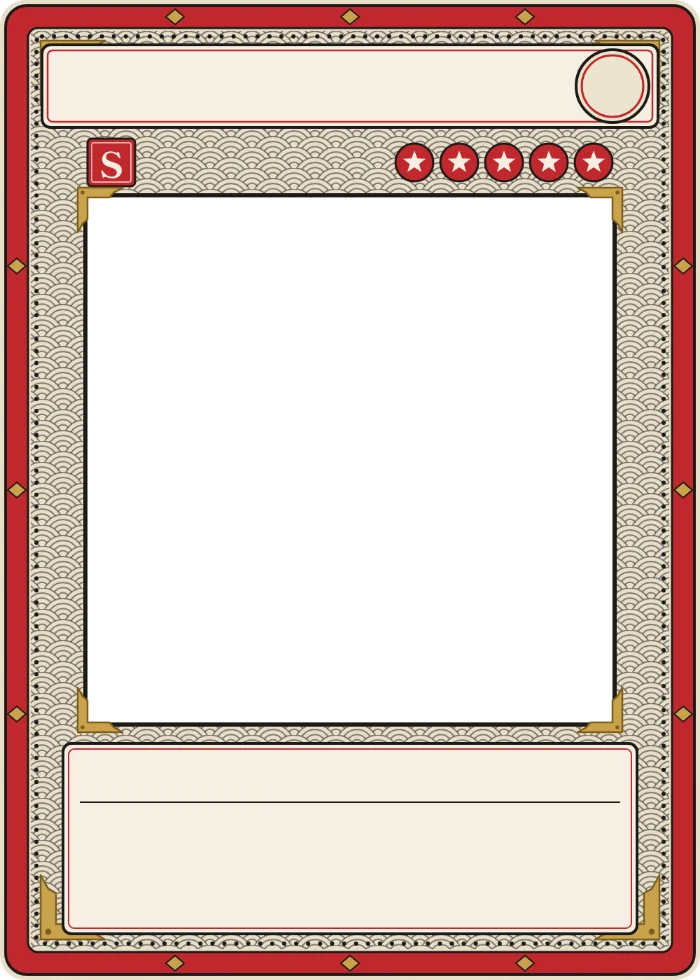
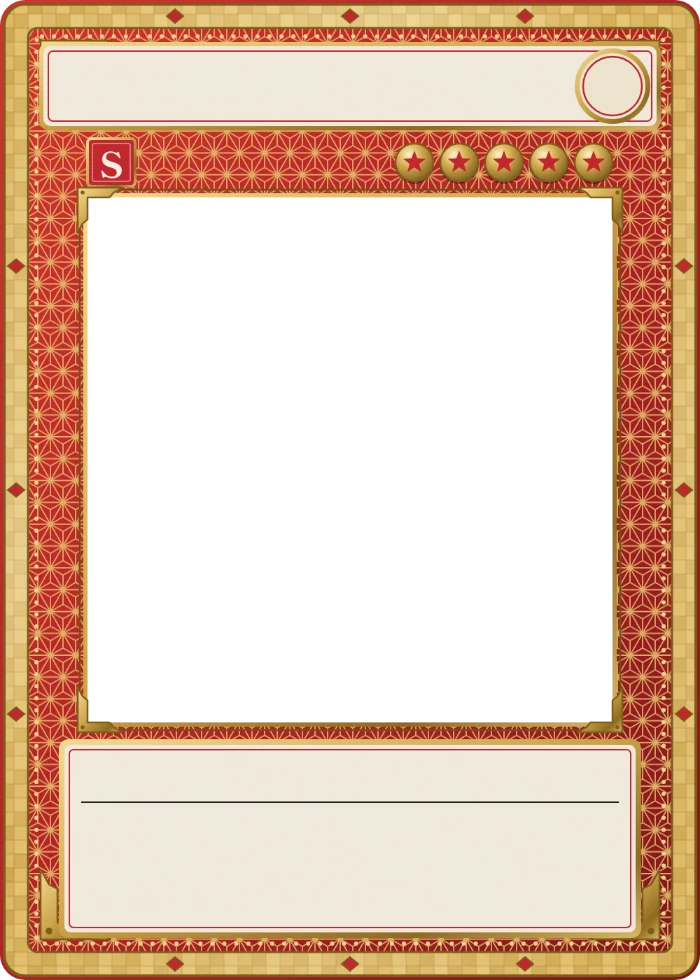
S de Jugador nueva: laca bermellón con asanoha de oro
- Marco S de Jugador rehecho con más nivel: campo de laca bermellón con asanoha (hoja de cáñamo) de oro,
  banda de pan de oro, marcos de oro en el nombre, la ventana y la caja de texto, y estrellas de oro.
- Alternativa en pan de oro con anillos shippō bermellón (diseno/marcos/svg/propuestas/) y la S anterior
  guardada. El exportador puede sacar solo algunas piezas: node diseno/marcos/exportar.mjs jugador/S.

diff --git a/PROGRESO.md b/PROGRESO.md
@@ -91,3 +91,12 @@
 - Guardadas para ediciones especiales: la laca completa y la S+ washi con torii (en el lienzo y en `diseno/marcos/svg/guardadas/`).
 - Web: las cartas especiales pasan a ser BOOST (`data-proyecto/cartas-boost.json`, con tier S+, S, A o B); marcos por clase en `public/cartas/marcos/jugador|boost/` (WebP de 700 px: de 9 a 80 KB los marcos y 173 KB el reverso) y reverso común en la apertura de sobres. `diseno/marcos/generar.mjs` y `exportar.mjs` los rehacen.
 - Pendiente del usuario: decidir si la D se queda en la tier list (las de Jugador son S, A, B, C) y qué hace cada BOOST en el fantasy; los dibujos de cada carta (Excel de campeones).
+
+## 30/09: primeras cartas reales (SARU, KAIJU, TORA y 5 BOOST) y campeón en cada carta
+
+- Plantillas de SARU, KAIJU y TORA con sus cinco jugadores (`data-proyecto/plantillas.json`) y su tier (copia local `data/tierlist.json`, que no se sube a GitHub). Los otros 12 clanes siguen sin jugadores ni tier, así que sus cartas aún no existen.
+- Cinco cartas BOOST en `data-proyecto/cartas-boost.json`: MAKITAH «El Titiritero», SONS «The CEO», IGRID «Topfather» y LOLEX «El Pequeñísimo» (S+, ×3) y GYPSICUACK «El Gitano» (S, ×2). Cada una lleva `multiplicador` y `condicion` (`dano`, `participacion`, `dano-torres`, `cs` o `asistencias`); sin una condición conocida y más de ×1 no hay bonus. Sale en la carta como «×3 · más daño» y la frase entera al pasar el ratón.
+- Campeón de cada carta, jugadores y BOOST, en `data-proyecto/campeones-cartas.json` (id de Data Dragon por id de carta; uno desconocido se descarta con un aviso en el log). La carta lo enseña bajo el rol. El campeón va con el puesto (CLAN-ROL), no con la persona: si cambia el jugador en el panel, el campeón se queda.
+- En Render los nombres y las tiers viven en Google Sheets (pestañas Plantillas y Tierlist), así que los de este día no llegan solos: hay que meterlos por el panel o pegarlos en la hoja. Los campeones y las BOOST sí llegan al desplegar, porque salen del repositorio.
+- Pendiente: la web todavía no aplica el multiplicador de las BOOST al fantasy (siguen sin poder alinearse); falta decidir cómo se juegan y qué dato de fin de partida comprueba cada condición.
+- S de Jugador rehecha (le faltaba nivel): laca bermellón con asanoha de oro, banda de pan de oro, marcos de oro en el nombre, la ventana y la caja, y estrellas de oro. Alternativa en pan de oro con anillos shippō bermellón en el lienzo y en `diseno/marcos/svg/propuestas/`; la anterior, guardada.

diff --git a/README.md b/README.md
@@ -206,7 +206,7 @@ El `id` es el nombre del dibujo (mayúsculas, números y guiones) y `tier` es `S
 - **Dibujo de cada carta:** `public/cartas/ID.png` (también `.webp` o `.jpg`), donde el ID es el puesto del jugador (`KAIJU-TOP`, `TORA-ADC`…) o el de la BOOST (`BOOST-KAMI`). Mientras no exista, la carta lleva el arte de su clan (y las BOOST, el sol partido).
 - **Marcos:** en `public/cartas/marcos/jugador/` (S, A, B, C y D, en papel washi) y `boost/` (SP, que es la S+, S, A y B, en laca de armadura con cordones: oro, rojo, blanco y añil). Tienen la ventana del arte transparente (750×750 en x 125, y 282 de 1000×1400), y el sello con la letra y las estrellas ya dibujados. Sin marco, la carta se dibuja como antes.
 - **Reverso:** `public/cartas/marcos/reverso.webp`, el mismo para las dos clases y todas las tiers: al abrir el sobre las tres cartas salen boca abajo y no se sabe qué ha tocado hasta darles la vuelta.
-- Los marcos se hacen en `diseno/marcos/`: `node diseno/marcos/generar.mjs` los dibuja en SVG y `node diseno/marcos/exportar.mjs` los pasa a PNG de 1000×1400 (originales, en `diseno/marcos/png/`, fuera del repositorio) y a WebP ligeros para la web (usa Chrome o Edge sin ventana). Ahí están también **guardados** para ediciones especiales la alternativa de laca completa y la S+ washi con torii (`exportar.mjs --guardadas` los pasa a PNG).
+- Los marcos se hacen en `diseno/marcos/`: `node diseno/marcos/generar.mjs` los dibuja en SVG y `node diseno/marcos/exportar.mjs` los pasa a PNG de 1000×1400 (originales, en `diseno/marcos/png/`, fuera del repositorio) y a WebP ligeros para la web (usa Chrome o Edge sin ventana). Ahí están también **guardados** para ediciones especiales la alternativa de laca completa, la S+ washi con torii y la S de Jugador anterior, y en `propuestas/` la S de Jugador en pan de oro (`exportar.mjs --guardadas` los pasa a PNG). Con un trozo del nombre solo se exportan esas piezas: `node diseno/marcos/exportar.mjs jugador/S`.
 - Las posiciones del nombre, el emblema y el rol sobre el marco se ajustan en el bloque «Carta con marco» de `public/gachapon/gachapon.css`.
 - La web mira la carpeta cada minuto: los dibujos nuevos aparecen sin reiniciar. Las direcciones llevan la fecha del archivo, así que al cambiar un dibujo nadie ve el antiguo en caché.
 - Para verlo sin tocar datos reales: `npm run vista-previa` (jugadores inventados, una BOOST de cada tier y los dibujos de `public/cartas`) y entra en `http://localhost:3055/auth/prueba?nombre=Ana`.
